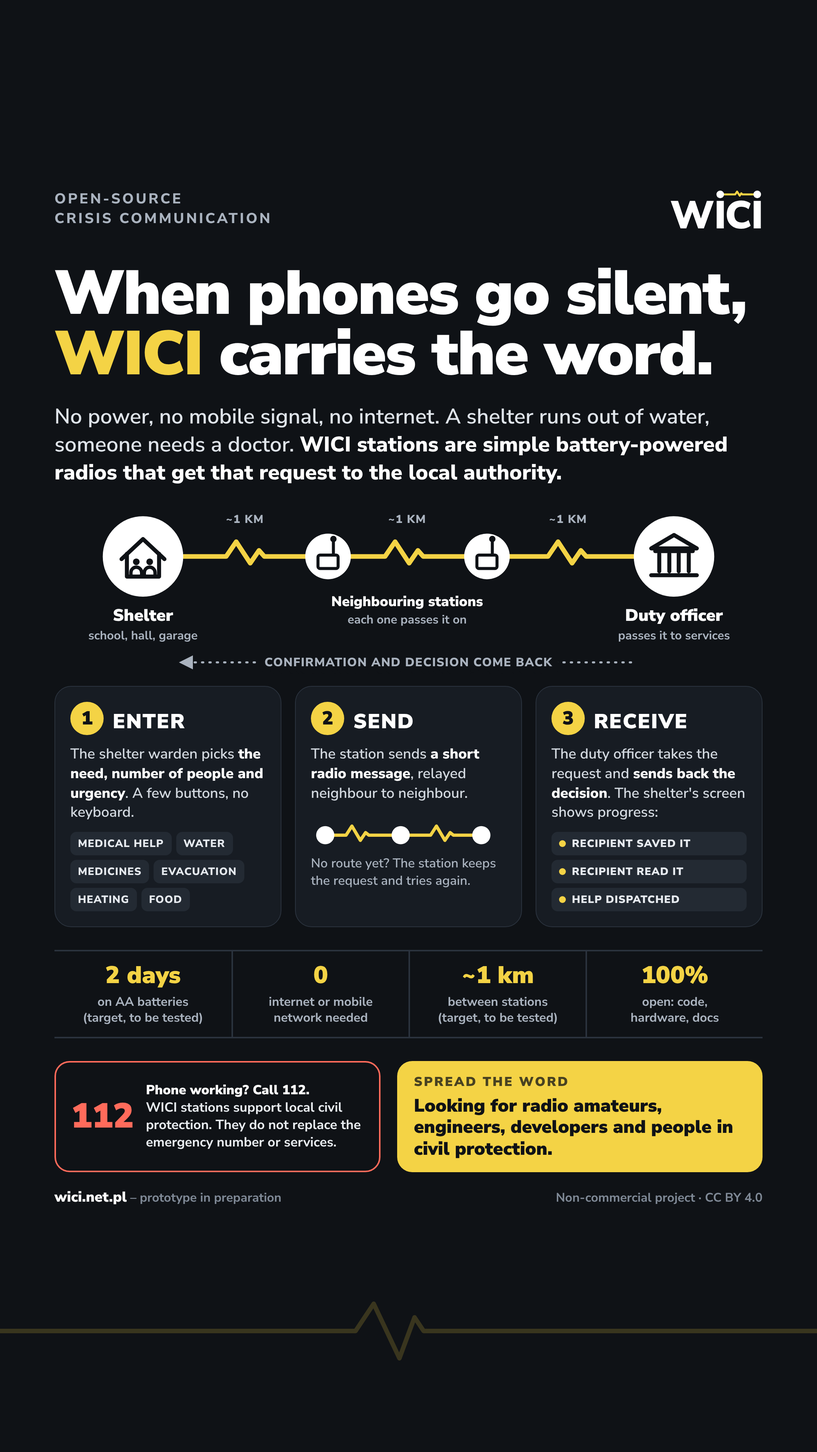
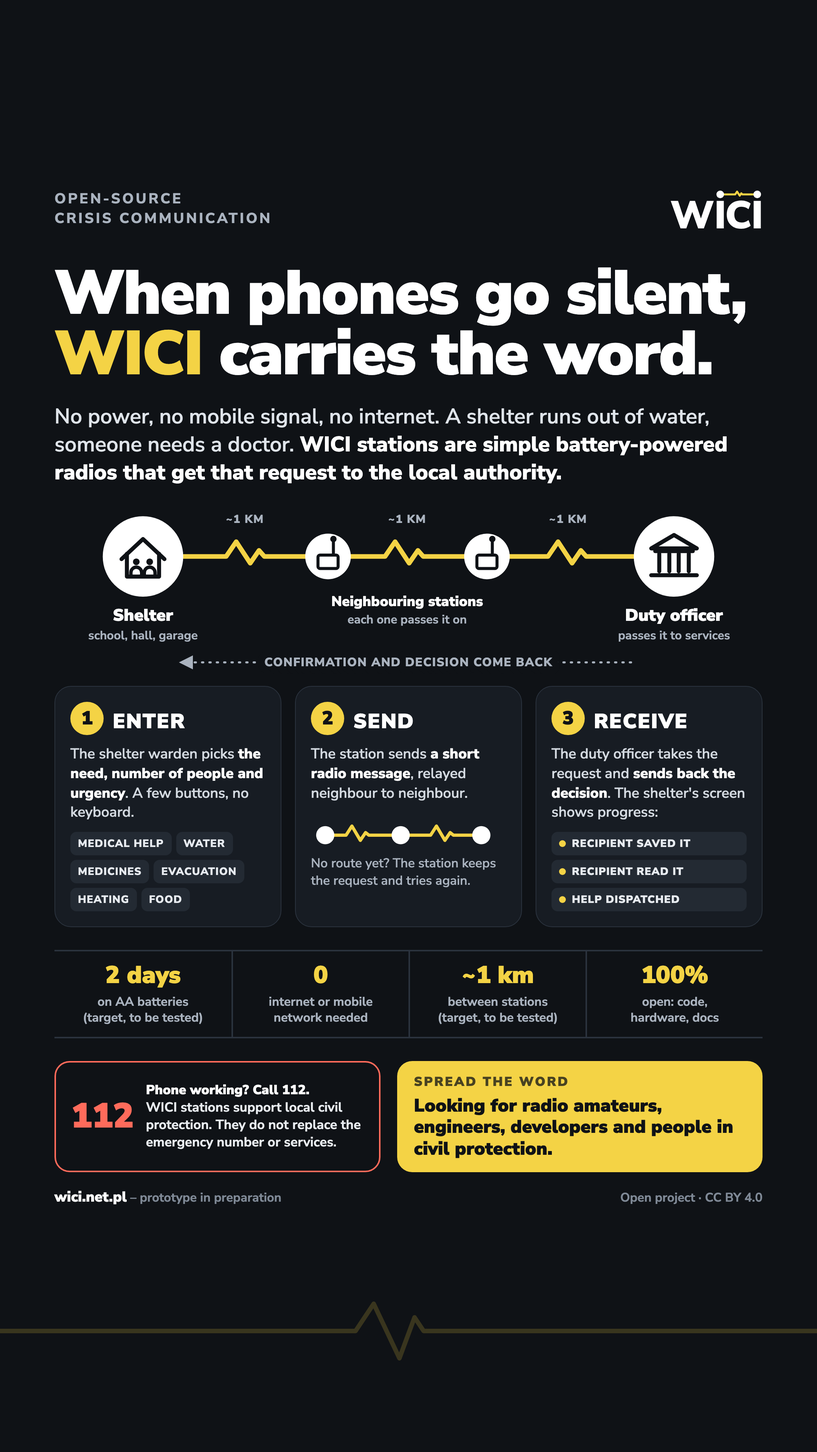
Koncepcja: sieci publiczne a 72 h, Kiezbox, program 2027–2031; projekt otwarty (#14)
* Koncepcja: sieci publiczne a 72 h, Kiezbox, program 2027–2031; licencje dopuszczają zastosowania komercyjne

- 03: dlaczego nie wystarczą sieci publiczne (maszty w Berlinie ok. 30 min,
  projekt rozporządzenia RCL 12385251, art. 33 ust. 3 pkt 6 ustawy o ochronie
  ludności, cell broadcast, roaming krajowy); Kiezbox 2.0 i miejsce WICI
  w trójwarstwowym modelu berlińskiej komisji
- 02: uzasadnienie zasilania stanowiska na >=72 h; porozumienia samorządów
  z krótkofalowcami
- 08: Program Ochrony Ludności i Obrony Cywilnej 2027-2031 według projektu,
  do sprawdzenia po publikacji w M.P.
- źródła i wpis F116 w rejestrze przeglądu
- README, LICENSE.md, FAQ, 06: projekt otwarty, licencje dopuszczają
  zastosowania komercyjne

* CONTRIBUTING i infografika: projekt otwarty zamiast niekomercyjnego

Stopka infografiki PL i EN oraz CONTRIBUTING.md zgodnie z LICENSE.md;
PNG wygenerowane ponownie przez render.js.

---------

diff --git a/docs/concept/zrodla.html b/docs/concept/zrodla.html
@@ -128,13 +128,15 @@
 
 <p>Powódź we wrześniu 2024 r. (scenariusz odniesienia w <a href="03-dostepne-rozwiazania.html">rozdziale 03</a>): brak zasięgu komórkowego w Lądku-Zdroju i Stroniu Śląskim (<a href="https://forsal.pl/kraj/bezpieczenstwo/artykuly/9605808,kataklizm-w-kotlinie-klodzkiej-stronie-slaskie-i-ladekzdroj-odciete.html">PAP w Forsal, 15.09.2024</a>), niedziałające stacje bazowe operatorów (<a href="https://android.com.pl/tech/812934-powodz-operatorzy-awarie/">android.com.pl, 17.09.2024</a>), terminale satelitarne przekazane przez zespół zarządzania kryzysowego (<a href="https://www.polskieradio.pl/395/7786/artykul/3427345,starlink-deployed-to-support-flood-rescue-and-aid-efforts-in-poland">Polskie Radio, 20.09.2024</a>) oraz apel PZK o wolne częstotliwości dla łączności powodziowej (<a href="https://www.iaru-r1.org/2024/poland-requests-clear-frequencies-for-flood-response/">IARU Region 1, 17.09.2024</a>). Program Ochrony Ludności i Obrony Cywilnej na lata 2025–2026: <a href="https://www.gov.pl/web/kgpsp/rzad-przyjal-program-ochrony-ludnosci-i-obrony-cywilnej-na-lata-2025-2026">KG PSP</a>.</p>
 
+<p>Stan na 2026-10-12 (<a href="03-dostepne-rozwiazania.html#dlaczego-nie-wystarcza-sieci-publiczne">rozdział 03</a>, <a href="08-plan-weryfikacji-i-decyzje.html">rozdział 08</a>): projekt rozporządzenia Ministra Cyfryzacji w sprawie warunków technicznych zasilania energią elektryczną obiektów budowlanych telekomunikacji lub pomieszczeń telekomunikacyjnych (<a href="https://legislacja.gov.pl/projekt/12385251">RCL nr 12385251</a>; notyfikacja w UE od 14.09.2026; nieogłoszony; czasy podtrzymania dla stacji bazowych odczytane z tabeli załącznika z niepewnością); obowiązek gminy dotyczący zasobów łączności na co najmniej 3 dni: art. 33 ust. 3 pkt 6 ustawy o ochronie ludności i obronie cywilnej; zapowiedź cell broadcast do września 2027 r. (PAP, 6.10.2026); porozumienie czterech operatorów o roamingu krajowym w sytuacjach kryzysowych z lutego 2026 r. (działanie niepotwierdzone). Program Ochrony Ludności i Obrony Cywilnej na lata 2027–2031: przyjęty przez Radę Ministrów 6.10.2026, nieogłoszony w M.P.; obszary 4B i 5c według projektu z maja 2026 r., do sprawdzenia w tekście ostatecznym.</p>
+
 <h2 id="doswiadczenia-z-kryzysow">Doświadczenia z kryzysów</h2>
 
 <p>Powódź 2024 w Kotlinie Kłodzkiej: reportaż z 16.09.2024 z cytatem „Nie ma kontaktu ze służbami i lokalnymi władzami” i opisem wpisu osoby, która doszła do miejsca z zasięgiem (<a href="https://biznes.wprost.pl/gospodarka/11811131/powodz-w-ladku-zdroju-stronie-slaskie-jest-odciete-od-swiata.html">Wprost</a>); relacja o odcięciu małych miejscowości (<a href="https://oko.press/powodz-odciela-male-miejscowosci-od-swiata">OKO.press</a>); <a href="https://www.sejm.gov.pl/Sejm10.nsf/interpelacja.xsp?typ=INT&amp;nr=5430">interpelacja nr 5430</a> z 11.10.2024 (lista osób, z którymi utracono kontakt) i <a href="https://sejm.gov.pl/INT10.nsf/klucz/ATTDB7G4M/%24FILE/i05430-o1.pdf">odpowiedź Ministerstwa Cyfryzacji</a> z 19.11.2024.</p>
 
 <p>Inne kraje: raport końcowy komisji śledczej 18/1 „Flutkatastrophe” Landtagu Nadrenii-Palatynatu, Drucksache 18/10000 z 2.08.2024, 2141 stron, w dokumentacji parlamentarnej Landtagu (<a href="https://landtag-rlp.de/de/parlament/ausschuesse-und-gremien/sonstige-ausschuesse-kommis/untersuchungsausschuss-181-f.htm">strona komisji</a>; prasa cytuje Rn. 7635, brzmienie akapitu do potwierdzenia w dokumencie); awaria zasilania w Hiszpanii z 28.04.2025 i stopniowa utrata zasięgu komórkowego (<a href="https://elperiodicodelaenergia.com/el-gobierno-obligara-a-las-telecos-a-instalar-baterias-en-sus-antenas-para-no-perder-cobertura-en-caso-de-apagones">El Periódico de la Energía, 23.06.2026</a>) oraz zapowiedź rządu o 4 h zasięgu dla 75% ludności (<a href="https://digital.gob.es/comunicacion/notas-prensa/mtdfp/2026/06/oscar-lopez-anuncia-que-el-gobierno-obligara-a-mantener-la-cober">MTDFP, 25.06.2026</a>); awaria zasilania w Berlinie w styczniu 2026 r. i stan punktów Kat-Leuchttürme (<a href="https://www.baks.bund.de/de/arbeitspapiere/2026/bedingt-resilient-was-der-berliner-blackout-anfang-2026-fuer-die-deutsche">BAKS, Arbeitspapier 1/2026</a>); awaria sieci Telenor w Norwegii 8.10.2026: przebieg, numery alarmowe, zatrzymanie kolei i punkty policji przed komisariatami według relacji prasowych (<a href="https://www.aa.com.tr/en/europe/mobile-network-outage-halts-trains-across-norway-disrupts-emergency-calls/4082669">Anadolu Agency</a>, <a href="https://tvpworld.com/95829922/telenor-outage-disrupts-emergency-calls-and-halts-trains-in-norway">TVP World</a>, <a href="https://www.polsatnews.pl/wiadomosc/2026-10-08/wielka-awaria-w-norwegii-nie-dzialaja-telefony-alarmowe-wstrzymano-ruch-kolejowy/">Polsat News</a>; komunikatu operatora ani regulatora nie sprawdzono); awarie numerów alarmowych w 2024 r. i zapowiedź kary dla Telenoru (<a href="https://www.regjeringen.no/no/aktuelt/tilsynsrapport-klar-etter-problemer-med-nodnummer/id3089771/">rząd Norwegii: raport z kontroli</a>).</p>
 
-<p>Punkty Katastrophenschutz-Leuchttürme: <a href="https://mik.brandenburg.de/mik/de/innere-sicherheit/brand-katastrophenschutz/katastrophenschutz-leuchttuerme/">MIK Brandenburg</a> (zadania, liczba punktów, finansowanie; stan strony 22.07.2026), <a href="https://www.stuttgart.de/en/service/aktuelle-meldungen/2026/januar/notfall-leuchttuerme-staerken-den-bevoelkerungsschutz">Stuttgart, 23.01.2026</a> (26 punktów, ćwiczenie z przerwaniem łączności), <a href="https://www.berliner-feuerwehr.de/forschung/kat-leuchttuerme/">Berliner Feuerwehr</a> (projekt badawczy, z którego wywodzi się koncepcja). Zasięg komunikatora Bluetooth: <a href="https://bridgefy.me/">Bridgefy</a> (około 100 m według producenta). Źródła sprawdzono 2026-10-10.</p>
+<p>Punkty Katastrophenschutz-Leuchttürme: <a href="https://mik.brandenburg.de/mik/de/innere-sicherheit/brand-katastrophenschutz/katastrophenschutz-leuchttuerme/">MIK Brandenburg</a> (zadania, liczba punktów, finansowanie; stan strony 22.07.2026), <a href="https://www.stuttgart.de/en/service/aktuelle-meldungen/2026/januar/notfall-leuchttuerme-staerken-den-bevoelkerungsschutz">Stuttgart, 23.01.2026</a> (26 punktów, ćwiczenie z przerwaniem łączności), <a href="https://www.berliner-feuerwehr.de/forschung/kat-leuchttuerme/">Berliner Feuerwehr</a> (projekt badawczy, z którego wywodzi się koncepcja). Wnioski komisji ekspertów (Albrecht Broemme) po berlińskiej awarii: maszty komórkowe około 30 minut, postulat 72 h podtrzymania, trzy warstwy Resilienzhubs, Kat-Leuchttürme i Kiezboxen (<a href="https://kommunal.de/blackout-berlin-lehren-kommunen">KOMMUNAL, 7.07.2026</a>). Kiezbox 2.0: <a href="https://github.com/technologiestiftung/kiezbox-messages">Technologiestiftung Berlin, kod</a> (pilotaż 10/2022–07/2025, zakończony; stan 2026-10-12). Zasięg komunikatora Bluetooth: <a href="https://bridgefy.me/">Bridgefy</a> (około 100 m według producenta). Źródła sprawdzono 2026-10-10.</p>
 </article>
 <nav class="pager" aria-label="Kolejność czytania">
   <a class="prev" href="slownik.html" rel="prev"><span>← Poprzedni</span>Słownik</a>

diff --git a/docs/concept/03-dostepne-rozwiazania.html b/docs/concept/03-dostepne-rozwiazania.html
@@ -92,7 +92,17 @@
 
 <p>Podobne awarie opisano w innych krajach UE. Komisja śledcza Landtagu Nadrenii-Palatynatu ustaliła, że podczas powodzi w dolinie Ahry w 2021 r. zawiodły sieci komórkowe i cyfrowe radio służb. Po awarii zasilania w Hiszpanii 28 kwietnia 2025 r. sieć komórkowa gasła stopniowo; rząd zapowiedział obowiązek baterii zapewniających 4 h zasięgu dla 75% ludności, wprowadzany przez trzy lata. Po podpaleniu linii zasilającej w Berlinie 3 stycznia 2026 r. ponad 45 000 gospodarstw było kilka dni bez prądu i ogrzewania, a na początku kryzysu mocno ucierpiał też zasięg komórkowy; zasilanie ustabilizowano 9 stycznia. Nie trzeba przy tym klęski żywiołowej: 8 października 2026 r. awaria sieci Telenor w Norwegii przez ponad 3 godziny zakłóciła w całym kraju połączenia, także z numerami alarmowymi 110, 112 i 113, przy działającym zasilaniu. Zarządca kolei zatrzymał wszystkie pociągi, bo nie mógł skontaktować się ze służbami, a w Oslo policjanci stanęli przed komisariatami, żeby przyjmować zgłoszenia osobiście. Był to improwizowany punkt zgłoszeń. Wcześniej, po czterech awariach numerów alarmowych jesienią 2024 r., norweski regulator Nkom zapowiedział Telenorowi karę 50 mln koron.</p>
 
+<h3 id="dlaczego-nie-wystarcza-sieci-publiczne">Dlaczego nie wystarczą sieci publiczne</h3>
+
+<p>Stan wiedzy: 2026-10-12. Sieć komórkowa przetrwa długą awarię zasilania tylko tak długo, jak zasilanie awaryjne masztów. Komisja ekspertów, która oceniała berlińską awarię ze stycznia 2026 r. (ponad 100 tys. osób kilka dni bez prądu po zamachu na sieć energetyczną w Steglitz-Zehlendorf), odnotowała, że maszty komórkowe wytrzymały około 30 minut, i postuluje 72 godziny podtrzymania. W Polsce projekt rozporządzenia Ministra Cyfryzacji w sprawie warunków technicznych zasilania obiektów i pomieszczeń telekomunikacyjnych (RCL nr 12385251, notyfikowany w UE od 14.09.2026, nieogłoszony) wymaga magazynu energii co najmniej 6 h, a dla stacji bazowych około 2–6 h (odczyt tabeli załącznika niepewny). Dotyczy tylko nowych obiektów i przebudów. Wcześniejszego projektu z 2022 r. z wymogiem 72 h nie przyjęto. Tymczasem ustawa o ochronie ludności i obronie cywilnej (art. 33 ust. 3 pkt 6) wymaga od gminy zasobów na co najmniej 3 dni łączności. Ta różnica uzasadnia zasilanie stanowiska odbiorczego na co najmniej 72 h (<a href="02-scenariusze-i-organizacja.html">rozdział 02</a>) i pracę stacji bez sieci publicznych (W01, W23).</p>
+
+<p>Dwa rozwiązania zapowiadane dla ludności też zależą od masztów. Cell broadcast (ostrzeżenia rozsyłane do wszystkich telefonów w zasięgu stacji bazowej) w Polsce nie działa; MSWiA zapowiada go do września 2027 r. Roaming krajowy w sytuacjach kryzysowych opiera się na dobrowolnym porozumieniu czterech operatorów z lutego 2026 r.; czy działa w praktyce, nie potwierdzono. Oba rozwiązania pomagają tylko tam, gdzie działa choć jeden maszt. Źródła: <a href="zrodla.html#doswiadczenia-z-kryzysow">doświadczenia z kryzysów</a> i <a href="zrodla.html#ochrona-ludnosci-i-dane">ochrona ludności</a>.</p>
+
 <p>Najbliższym odpowiednikiem WICI są niemieckie punkty Katastrophenschutz-Leuchttürme: wyznaczone miejsca z zasilaniem awaryjnym, w których mieszkańcy dostają informacje i mogą wezwać pomoc, gdy nie działają telefony. Brandenburgia ma 332 stałe i 5 mobilnych punktów i przekazała na nie w 2024 r. ponad 40 mln euro. Stuttgart ma 26 punktów z łącznością radiową wozów straży do zintegrowanej dyspozytorni; na ćwiczeniu pod koniec 2025 r. połączenie z dyspozytornią zostało przerwane. Z 45 punktów zapowiedzianych w Berlinie gotowa była według BAKS mniej więcej jedna trzecia. Wnioski dla WICI: funkcja punktu zgłoszeń z łącznością do odbiorcy jest uznaną częścią ochrony ludności; łączność trzeba sprawdzać przed kryzysem (próby T i ćwiczenie przy stole w etapie 0); koszt i utrzymanie przesądzają o liczbie gotowych punktów, dlatego stacja ma być tania i obsługiwana przez opiekuna schronienia. Źródła: <a href="zrodla.html#doswiadczenia-z-kryzysow">doświadczenia z kryzysów</a>.</p>
+
+<p>Bliskim projektem technicznym była berlińska Kiezbox 2.0 (Technologiestiftung Berlin, pilotaż 10/2022–07/2025, zakończony; <a href="https://github.com/technologiestiftung/kiezbox-messages">kod</a>). Skrzynka ma komputer Banana Pi, panel słoneczny i akumulator. W kryzysie tworzy sieć Wi-Fi mesh (802.11s, B.A.T.M.A.N.) z portalem informacyjnym, przez który mieszkańcy wysyłają zgłoszenia tekstowe ze smartfonów; LoRa służy tam tylko czujnikom. Kiezbox daje więc Wi-Fi telefonom w pobliżu skrzynki. WICI jest stacją obsługiwaną przez wyznaczonego opiekuna, z ustrukturyzowanym zgłoszeniem, trzema potwierdzeniami (odbiorca zapisał, przeczytał, pomoc skierowana) i kanałem radiowym do gminy na kilometry. Bez telefonu mieszkańca działa poziom 1; lokalna strona dla telefonów (poziom 3) jest dodatkiem i nie łączy schronień ze sobą.</p>
+
+<p>Berlińska komisja ekspertów proponuje trzy warstwy: Resilienzhubs, Kat-Leuchttürme i Kiezboxen jako węzły komunikacyjne niezależne od sieci, działające także na co dzień (stan 2026-10-12). W takim modelu WICI nie jest osobną warstwą, tylko drogą zgłoszeń między punktami, w których gromadzą się ludzie (odpowiednik Kat-Leuchttürme i schronień), a gminą. Funkcję Kiezboxu w otoczeniu punktu pełni w WICI poziom 3. Pracy na co dzień WICI nie przewiduje: gotowość utrzymują kwartalne przeglądy z wiadomością TEST i ćwiczenia (<a href="02-scenariusze-i-organizacja.html">rozdział 02</a>).</p>
 
 <h2 id="spolecznosci-meshcore-i-meshtastic">Społeczności MeshCore i Meshtastic</h2>
 

diff --git a/docs/concept/02-scenariusze-i-organizacja.html b/docs/concept/02-scenariusze-i-organizacja.html
@@ -73,12 +73,14 @@
 
 <p>Praca całodobowa wymaga w obiekcie co najmniej trzech przeszkolonych osób (opiekuna i dwóch zastępców) na zmianach do 12 h, a na stanowisku odbiorczym grafiku co najmniej czterech osób, ujętego w gminnym planie zarządzania kryzysowego. Kandydatami mogą być pracownicy obiektu, członkowie OSP, sołtys, osoby z przydziałem mobilizacyjnym obrony cywilnej, wolontariusze, krótkofalowcy. Opiekun i zastępcy przechodzą kurs pierwszej pomocy. Każda zmiana prowadzi papierowy dziennik, w którym zapisuje czas, krótki numer zgłoszenia, decyzję i przekazanie zmiany.</p>
 
+<p>W 2026 r. samorządy zawierają porozumienia z organizacjami krótkofalarskimi o zapasowej łączności radiowej (stan 2026-10-12). Takie organizacje są naturalnymi partnerami WICI przy przekaźnikach (miejsca, anteny, przeglądy techniczne) i przy dyżurach na stanowisku odbiorczym. Zakres ich udziału w sieci WICI wpisuje się do porozumienia z gminą, tak jak dla pozostałych osób obsługi.</p>
+
 <p>Zestaw stanowiska odbiorczego obejmuje:</p>
 <ul>
   <li>dwie stacje WICI w konfiguracji węzła stanowiska: przekazują ruch sieci i łączą radio z komputerem stanowiska; zapasową może być dowolna stacja;</li>
   <li>obowiązkowy komputer stanowiska z Reticulum i LXMF, tożsamością odbiorcy i bazą zgłoszeń – przeznaczony do tego celu, a nie sprzęt znaleziony na miejscu – bez usypiania, samoczynnych aktualizacji i połączenia z siecią, z pełnym szyfrowaniem dysku; drugi przygotowany komputer i zaszyfrowany nośnik stanowiska, który przy awarii przekłada się do zapasowego, a także nośnik na kopię bazy i zapasowy pusty nośnik;</li>
   <li>antenę kolinearną z odgromnikiem w najwyższym dostępnym punkcie;</li>
-  <li>zasilanie stacji i komputera na co najmniej 72 h (agregat lub stacja zasilania z deklaracją zgodności UE);</li>
+  <li>zasilanie stacji i komputera na co najmniej 72 h (agregat lub stacja zasilania z deklaracją zgodności UE), bo na zasilanie awaryjne masztów komórkowych nie można liczyć (<a href="03-dostepne-rozwiazania.html#dlaczego-nie-wystarcza-sieci-publiczne">rozdział 03</a>);</li>
   <li>koperty: hasło stanowiska i hasła dyżurnych przy stanowisku; paczka tożsamości zapasowej i jej hasło u organizatora sieci, w dwóch różnych miejscach;</li>
   <li>dziennik papierowy;</li>
   <li>parę radiotelefonów PMR446 (ogólnodostępnych, bez pozwolenia) z nasłuchem;</li>

diff --git a/docs/concept/06-wykonalnosc-i-budzet-zasobow.html b/docs/concept/06-wykonalnosc-i-budzet-zasobow.html
@@ -294,7 +294,7 @@
 
 <p>Wycena prototypu i serii 100 sztuk powinna obejmować ten sam zakres: kompletację elementów, płytki drukowane (PCB) i montaż stacji, ekran i przyciski, ogniwa, obudowę, antenę, wiązki i bezpieczniki, pamięć USB, kontrolę każdej sztuki oraz straty produkcyjne. Osobno wycenia się projekt i kwalifikację drugiego wykonania (W14, decyzja po pilotażu), oprzyrządowanie, badania oraz poprawki po próbach. Cenę netto i brutto, transport i założenia walutowe podaje się oddzielnie. O wycenę identycznego zakresu należy poprosić co najmniej dwóch niezależnych wykonawców.</p>
 
-<p>Niekomercyjny cel nie usuwa kosztu części ani badań. Koszt jednostkowy po kwalifikacji nie jest kosztem pierwszego działającego zestawu. Przed ofertami i pełnymi projektami wykonawczymi dokładna kwota byłaby pozorną precyzją. Dlatego W24 ma na razie wartości robocze z szacunku BOM: stacja bez anteny ≤200 € brutto przy serii 100 sztuk, antena z montażem stałym ≤250 € brutto. Zatwierdza je opiekun repozytorium przed decyzją o własnej płytce stacji, a później zastępują je ceny z ofert.</p>
+<p>Otwarty charakter projektu nie usuwa kosztu części ani badań. Koszt jednostkowy po kwalifikacji nie jest kosztem pierwszego działającego zestawu. Przed ofertami i pełnymi projektami wykonawczymi dokładna kwota byłaby pozorną precyzją. Dlatego W24 ma na razie wartości robocze z szacunku BOM: stacja bez anteny ≤200 € brutto przy serii 100 sztuk, antena z montażem stałym ≤250 € brutto. Zatwierdza je opiekun repozytorium przed decyzją o własnej płytce stacji, a później zastępują je ceny z ofert.</p>
 
 <p><strong>Koszt projektu przed pilotażem.</strong> WICI jest otwartym projektem społecznościowym, a nie programem z budżetem na kwalifikację wyrobu. Dlatego przed pilotażem projekt nie płaci za własną płytkę, dwa tory RF, badania zgodności ani własne zasilanie 230 V. Koszt pilotażu to głównie 6–8 stacji pilotażowych z gotowych części, anteny, ogniwa, dwa komputery stanowiska i praca nad oprogramowaniem. Wycenę stacji pilotażowej robi się z wykazu gotowych części przed zamówieniem. Wydatki wydania (płytka, drugie wykonanie, pełna ocena zgodności) planuje się dopiero na podstawie wyników pilotażu; ustalenie podstawy prób terenowych (D20) jest przed pilotażem.</p>
 </article>

diff --git a/docs/concept/faq.html b/docs/concept/faq.html
@@ -68,7 +68,7 @@
 
 <h2 id="czym-jest">Czym jest WICI?</h2>
 
-<p>To otwarty, niekomercyjny projekt prostych stacji radiowych na baterie. Stacja stoi w miejscu, gdzie w kryzysie gromadzą się ludzie: w szkole, świetlicy, schronie. Gdy nie działa prąd, telefonia i internet, opiekun tego miejsca wybiera przyciskami, czego brakuje (np. woda, leki, ewakuacja), ile osób potrzebuje pomocy i jak pilnie. Zgłoszenie idzie radiem od stacji do stacji do dyżurnego wyznaczonego przez gminę, a ekran pokazuje, czy zostało zapisane, przeczytane i czy zapadła decyzja o pomocy (<a href="index.html">przegląd koncepcji</a>).</p>
+<p>To otwarty projekt prostych stacji radiowych na baterie. Stacja stoi w miejscu, gdzie w kryzysie gromadzą się ludzie: w szkole, świetlicy, schronie. Gdy nie działa prąd, telefonia i internet, opiekun tego miejsca wybiera przyciskami, czego brakuje (np. woda, leki, ewakuacja), ile osób potrzebuje pomocy i jak pilnie. Zgłoszenie idzie radiem od stacji do stacji do dyżurnego wyznaczonego przez gminę, a ekran pokazuje, czy zostało zapisane, przeczytane i czy zapadła decyzja o pomocy (<a href="index.html">przegląd koncepcji</a>).</p>
 
 <h2 id="112">Czy WICI zastępuje numer 112?</h2>
 
@@ -124,7 +124,7 @@
 
 <h2 id="kto">Kto za tym stoi i ile to kosztuje?</h2>
 
-<p>Na razie projekt prowadzi jedna osoba, z dużą pomocą asystenta AI przy analizach i dokumentacji. Projekt jest niekomercyjny: kod jest na licencji MIT, konstrukcja na CERN-OHL-P-2.0, a dokumentacja na CC BY 4.0, więc każdy może z niego korzystać i go rozwijać. Stacja pilotażowa powstaje z gotowych, ogólnie dostępnych części. Koszt stacji podamy po pilotażu, gdy będzie znany ostateczny skład.</p>
+<p>Na razie projekt prowadzi jedna osoba, z dużą pomocą asystenta AI przy analizach i dokumentacji. Projekt jest otwarty, a licencje dopuszczają zastosowania komercyjne: kod jest na licencji MIT, konstrukcja na CERN-OHL-P-2.0, a dokumentacja na CC BY 4.0, więc każdy może z niego korzystać i go rozwijać. Stacja pilotażowa powstaje z gotowych, ogólnie dostępnych części. Koszt stacji podamy po pilotażu, gdy będzie znany ostateczny skład.</p>
 
 <h2 id="kaniemieckie">Czy ktoś robi coś podobnego?</h2>
 

diff --git a/docs/concept/08-plan-weryfikacji-i-decyzje.html b/docs/concept/08-plan-weryfikacji-i-decyzje.html
@@ -158,6 +158,8 @@
 
 <p>Źródłem finansowania może być Program Ochrony Ludności i Obrony Cywilnej na lata 2025–2026 (uchwała nr 72 Rady Ministrów z 27 maja 2025 r., M.P. 2025 poz. 541 ze zm.; obszary m.in. „systemy łączności” i „podmioty ochrony ludności”); finansowanie po 2026 r. wymaga nowego programu.</p>
 
+<p>Nowy Program Ochrony Ludności i Obrony Cywilnej na lata 2027–2031 (102,4 mld zł) Rada Ministrów przyjęła 6 października 2026 r.; do 12 października 2026 r. uchwały nie ogłoszono w Monitorze Polskim. Dalsze dane pochodzą z projektu z maja 2026 r., nie z tekstu przyjętego. Obszar 4B „Sprzęt i infrastruktura łączności” ma zadanie priorytetowe „zakup sprzętu do zapewnienia łączności pomiędzy organami ochrony ludności i podmiotami ochrony ludności na poziomie lokalnym” i wskaźnik „liczba gmin i powiatów z awaryjnymi systemami łączności”; obszar 5c dotyczy punktów schronienia. Brzmienie obszarów, zadań i wskaźników trzeba sprawdzić w tekście ostatecznym po publikacji w M.P.</p>
+
 <p>Nie ma jeszcze przypisanych osób ani zatwierdzonego harmonogramu. Najpierw zamknąć zakres i dane wejściowe, potem wycenić pracę. Nie rozpoczynać serii produkcyjnej na podstawie samego wspólnego kontraktu stacji lub poprawnych plików produkcyjnych płytki (Gerber).</p>
 
 <p>Próby przerywa się, gdy wystąpi: fałszywy status sukcesu, utrata danych po potwierdzeniu (także przy wymianie ogniw), nieograniczona kolejka lub ponowienia, obejście budżetu TX, przekroczenie ochrony portu lub niespełniona ochrona AC (dwa ostatnie dotyczą wydania i własnego sprzętu). Należy wtedy naprawić przyczynę i powtórzyć zależne próby. Nie wolno zwiększać limitu, aby uzyskać zaliczenie.</p>

diff --git a/media/infografika/infografika.html b/media/infografika/infografika.html
@@ -177,7 +177,7 @@ pl:{
  ctak:"Rozsyłamy WICI",
  ctah:"Szukamy krótkofalowców, elektroników, programistów i ludzi ze służb i gmin.",
  foot1:"<b>wici.net.pl</b> – prototyp w przygotowaniu",
- foot2:"Projekt niekomercyjny · CC BY 4.0"
+ foot2:"Projekt otwarty · CC BY 4.0"
 },
 en:{
  tag:"Open-source<br>crisis communication",
@@ -199,7 +199,7 @@ en:{
  ctak:"Spread the word",
  ctah:"Looking for radio amateurs, engineers, developers and people in civil protection.",
  foot1:"<b>wici.net.pl</b> – prototype in preparation",
- foot2:"Non-commercial project · CC BY 4.0"
+ foot2:"Open project · CC BY 4.0"
 }};
 const lang=(new URLSearchParams(location.search).get("lang"))||"pl";
 const t=T[lang]; document.documentElement.lang=lang;

diff --git a/docs/review.md b/docs/review.md
@@ -125,6 +125,7 @@ Podział na lokalną stronę, osobny transport, trwałą kolejkę aplikacji i os
 | F113 | Pokrywa serwisowa i tryb przygotowania (2026-10-11, przy szkielecie obudowy): (1) pokrywa ze śrubą plombową i plombą ołowianą to osobna część frontu z wkładką gwintowaną, a przy 6–8 stacjach pilotażu obsługiwanych przez zespół projektu daje tylko wykrycie wejścia, tak jak tańsza naklejka VOID wymieniona w [obudowie R02](../hardware/r02/obudowa.md#elementy-panelu); (2) plomba wykrywa wejście tylko wtedy, gdy ktoś ją sprawdzi, i da się ją podrobić, a stacja nie zapisuje wejść w tryb przygotowania: dziennik zdarzeń stacji jest diagnostycznym pierścieniem, który nadpisuje najstarsze bloki ([pamięć FRAM](spec/oprogramowanie.md#pamięć-fram)), więc nie odróżni zmiany karty odbiorcy, adresu ani PRZENIEŚ STACJĘ wykonanej bez wiedzy osoby utrzymującej system | (1) przyjęte i wpisane do specyfikacji (2026-10-11): przycisk przygotowania za otworem Ø3–4 mm pod numerowaną naklejką VOID, numer w ewidencji razem z licznikiem wejść i skrótem konfiguracji ([tryb przygotowania](spec/oprogramowanie.md#tryb-przygotowania-i-naklejka-serwisowa), elektronika, projekt, odbiór T2, protokół USB, BOM stacji, koncepcja 02 i 05, [obudowa R02](../hardware/r02/obudowa.md), [szkielet obudowy](../hardware/obudowa/README.md)); pokrywa z plombą wraca do oceny przy wydaniu. (2) przyjęte i zaimplementowane: pierścień 10 rekordów 24 B w jawnym obszarze FRAM (0x00F00) z licznikiem wejść, który tylko rośnie, licznikiem czasu przy wejściu, znacznikiem nowej konfiguracji i 16 bitami jej SHA-256; wejście zapisane przed włączeniem trybu (bez zapisu tryb się nie włącza); ZNISZCZ DANE i ZAMKNIJ ZDARZENIE go nie kasują; uszkodzony pierścień: licznik „?”, potem od 1 ze znacznikiem; STAN i PRZEKAZANIE ZMIANY pokazują licznik, czas i zmianę (`przygotowanie_*`), `JOURNAL` pola `prep_*` ([oprogramowanie](../firmware/README.md#dziennik-i-magazyny-w-fram)); testy hosta (pierścień, ZNISZCZ DANE, 1000 zdarzeń, uszkodzenie, ekran) zaliczone. Otwarte: obraz nie zbudowany w PlatformIO po zmianie (rejestr platform niedostępny w środowisku przeglądu), próba T2 na sprzęcie, znaczniki `export`, `import` i obrazu oprogramowania razem z ich implementacją |
 | F114 | Własny tekst zgłoszenia na poziomie 1 (2026-10-12, na prośbę autora; pytanie padło już w pierwszej rozmowie o interfejsie): stacja przyjmowała tylko gotowe frazy, więc potrzeby spoza listy i miejsce w budynku szły gońcem. Porównane sposoby wpisu czterema przyciskami (średnio naciśnięć na znak polskiego tekstu): jedna lista alfabetyczna 13,0; lista według częstości liter 5,4, ale z nieprzewidywalnym porządkiem; dwa poziomy (grupa, potem znak) 6,0. Odrzucone: pokrętło zamiast GÓRA i DÓŁ (trudne w rękawicach, część mechaniczna narażona na zużycie i wilgoć, zmiana całej obsługi i trzech kart dla rzadko używanej funkcji) oraz podpowiadanie słów przed pomiarem (słowniki PL i UK, dodatkowe ekrany) | przyjęte dwa poziomy w porządku alfabetycznym: koncepcja (01, 04, 05, 07: ostrzeżenie „nie wpisuj nazwisk” i warunek szyfrowania FRAM przed kolejnymi próbami, 08: T1 i pomiar czasu wpisu w T8), [oprogramowanie](spec/oprogramowanie.md) (WŁASNY TEKST na liście fraz, „Wpis tekstu”, grupy znaków PL i UK, `wpis_wolne`, limit 48 znaków, 10 min bezczynności), instrukcja, projekt, odbiór (karta obsługi i instrukcja dyżurnego: w przenoszonej do `docs/obsluga/` wersji); oprogramowanie stacji: ekran wpisu w modelu ekranu i test na hoście. Po przeglądzie: rewizja nie kasuje szkicu z tekstem, przytrzymanie WSTECZ usuwa znaki zamiast pytania o porzucenie, walidacja grup, symulator przebudowany. Otwarte: brzmienie UK i EN nowych tekstów sprawdza T1, czas wpisu i podpowiadanie słów po T8 |
 | F115 | Alarm braku potwierdzenia po włączeniu bez RTC (2026-10-12, pytanie autora o brak zegara czasu rzeczywistego): alarmy liczyły tylko czas pracy, więc zgłoszenie z zagrożeniem życia bez RECEIVED, po kilku godzinach wyłączenia stacji, alarmowało dopiero po kolejnych 15 min pracy. Pozostałe skutki braku RTC (dolne oszacowanie ostatniego kontaktu, TEST po każdym włączeniu, brak godzin w dzienniku stacji) są akceptowalne. Rozważone: RTC z podtrzymaniem (RV-3028-C7) jako obowiązkowy: pin brakujący w wariancie B, BOM, podtrzymanie przez lata przechowywania, a i tak nie daje zaufanej godziny | poprawione programowo: po włączeniu zasilania (nie po restarcie programowym) próg `brak_potwierdzenia` i `brak_odczytu` REQUEST odliczanego sprzed włączenia jest przekroczony, `[n]` to dolne oszacowanie, do pierwszej wiadomości od odbiorcy o tym zgłoszeniu ([czas](spec/oprogramowanie.md#czas)); test `test_alarms_after_power_on`; RTC zostaje opcją |
+| F116 | Research fundatora o sieciach publicznych, podobnych rozwiązaniach i finansowaniu po stronie gminy (stan 2026-10-12): koncepcja nie uzasadniała zasilania stanowiska na ≥72 h czasem podtrzymania masztów, nie opisywała Kiezboxu ani trójwarstwowego modelu berlińskiej komisji, a finansowanie kończyło się na programie 2025–2026 | dopisane w koncepcji: [rozdział 03](concept/03-dostepne-rozwiazania.html#dlaczego-nie-wystarcza-sieci-publiczne) (maszty w Berlinie około 30 min, projekt rozporządzenia RCL 12385251, art. 33 ust. 3 pkt 6 ustawy o ochronie ludności, cell broadcast, roaming krajowy; Kiezbox 2.0 i miejsce WICI w modelu trzech warstw), 02 (powód 72 h, porozumienia samorządów z krótkofalowcami), 08 (program 2027–2031 według projektu), źródła. Otwarte: tabela załącznika projektu rozporządzenia, działanie roamingu krajowego, tekst programu 2027–2031 po publikacji w M.P. |
 
 ## F01: kontroler USB
 

diff --git a/README.md b/README.md
@@ -88,7 +88,7 @@ Na razie projekt prowadzi jedna osoba: [@tmierzwa](https://github.com/tmierzwa).
 
 Autor przegląda każdą zmianę. Obliczenia i założenia prawne czekają na niezależny przegląd; wyniki modelu wymagają potwierdzenia pomiarami.
 
-Projekt jest niekomercyjny i otwarty. Kod jest na licencji MIT, konstrukcja na CERN-OHL-P-2.0, a dokumentacja na CC-BY-4.0. Szczegóły są w [LICENSE.md](LICENSE.md). Podatności zgłaszaj prywatnie według [SECURITY.md](SECURITY.md). Obowiązuje [kodeks postępowania](CODE_OF_CONDUCT.md).
+Projekt jest otwarty; licencje dopuszczają zastosowania komercyjne. Kod jest na licencji MIT, konstrukcja na CERN-OHL-P-2.0, a dokumentacja na CC-BY-4.0. Szczegóły są w [LICENSE.md](LICENSE.md). Podatności zgłaszaj prywatnie według [SECURITY.md](SECURITY.md). Obowiązuje [kodeks postępowania](CODE_OF_CONDUCT.md).
 
 ## In English
 

diff --git a/CONTRIBUTING.md b/CONTRIBUTING.md
@@ -90,7 +90,7 @@ Główna gałąź jest chroniona: scalenie PR wymaga przejścia kontroli `public
 
 ## Licencje
 
-Wkład pozostaje pod licencją właściwą dla ścieżki w [LICENSE.md](LICENSE.md): kod MIT, konstrukcja CERN-OHL-P-2.0, dokumentacja CC-BY-4.0. Cel projektu jest niekomercyjny; wybrane otwarte licencje nie zabraniają zastosowań komercyjnych. Obowiązuje [kodeks postępowania](CODE_OF_CONDUCT.md); podatności zgłaszaj według [SECURITY.md](SECURITY.md).
+Wkład pozostaje pod licencją właściwą dla ścieżki w [LICENSE.md](LICENSE.md): kod MIT, konstrukcja CERN-OHL-P-2.0, dokumentacja CC-BY-4.0. Projekt jest otwarty; licencje dopuszczają zastosowania komercyjne. Obowiązuje [kodeks postępowania](CODE_OF_CONDUCT.md); podatności zgłaszaj według [SECURITY.md](SECURITY.md).
 
 ## In English
 

diff --git a/LICENSE.md b/LICENSE.md
@@ -1,6 +1,6 @@
 # WICI: licencje i zakres
 
-Własne materiały: współtwórcy WICI. Licencja zależy od ścieżki i rodzaju pliku, zgodnie z poniższą mapą. Pliki w paczkach mają te same licencje co ich źródła. Cel projektu jest niekomercyjny, ale poniższe licencje pozwalają na zastosowania komercyjne.
+Własne materiały: współtwórcy WICI. Licencja zależy od ścieżki i rodzaju pliku, zgodnie z poniższą mapą. Pliki w paczkach mają te same licencje co ich źródła. Projekt jest otwarty; poniższe licencje dopuszczają zastosowania komercyjne.
 
 | Ścieżki | Licencja |
 |---|---|
